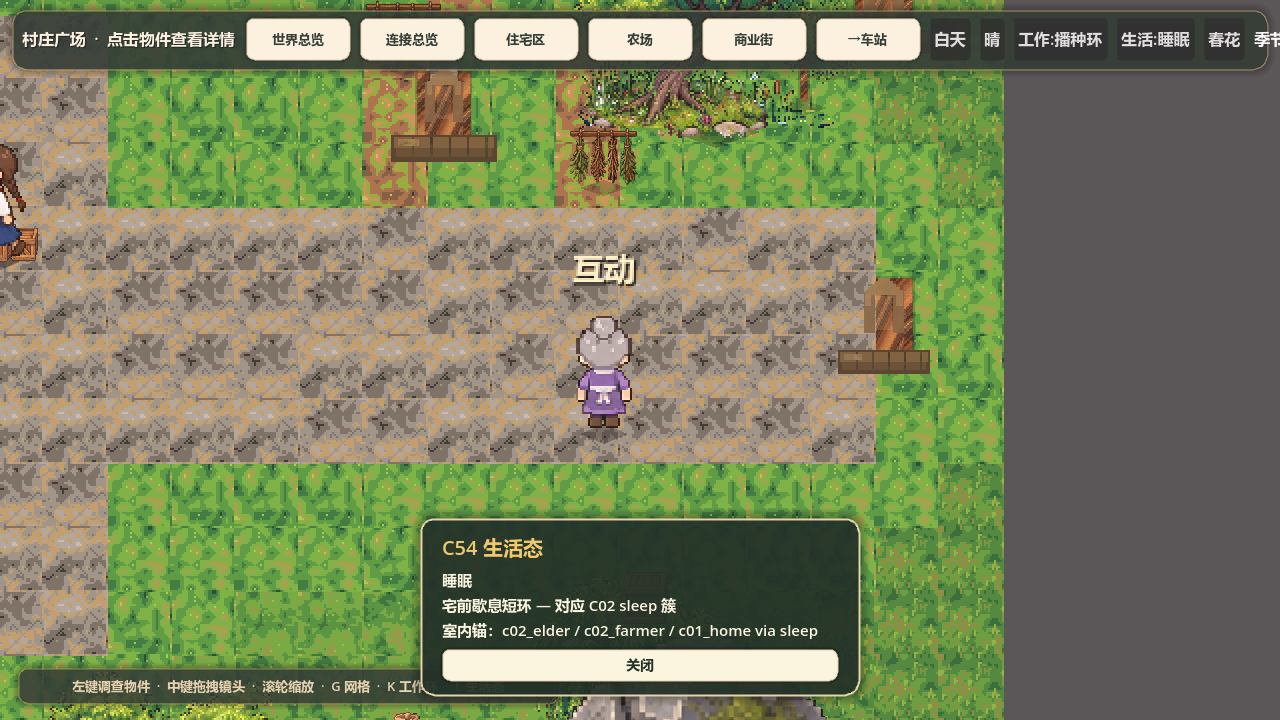
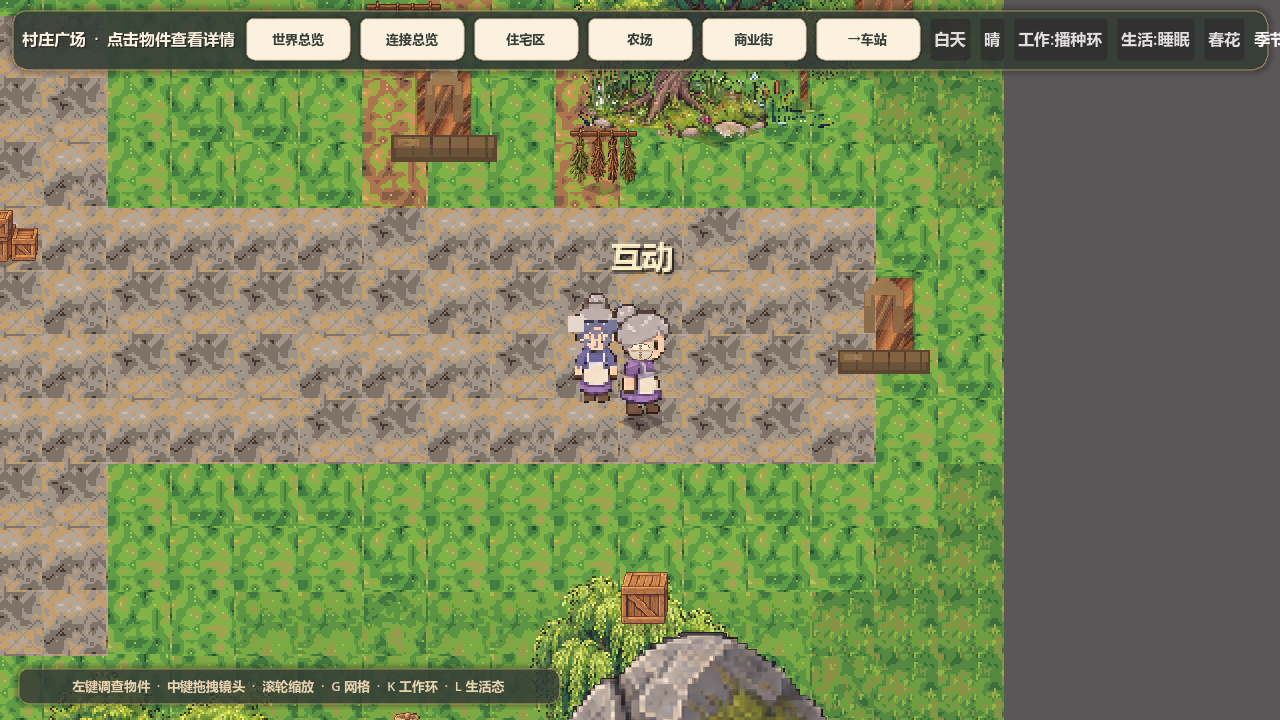
Hold sleep life-pose cues for MCP and strip Env-H dusk dead code.
Adds mcp_force_life_pose, drops C58 polygon FX fallbacks, clarifies §7 square criteria.

Changed region(s): [[0.3125, 0.7028, 0.6875, 0.9778], [0.4375, 0.3361, 0.5312, 0.6111], [0.0, 0.1833, 0.0312, 0.3667]]

diff --git a/dream/docs/GOAL_INTERACT_COMPLETE.md b/dream/docs/GOAL_INTERACT_COMPLETE.md
@@ -215,6 +215,7 @@
 - [`GOAL_G8_USER_QA_LOAD_SMOKE_EVIDENCE.md`](GOAL_G8_USER_QA_LOAD_SMOKE_EVIDENCE.md) — §7 21 场景加载冒烟 21/21  
 - [`GOAL_G8_PILLOW_LAMP_HINT_EVIDENCE.md`](GOAL_G8_PILLOW_LAMP_HINT_EVIDENCE.md) — C54 pillow 深绘 + 白天路灯按 N 提示  
 - [`GOAL_G8_LAMP_STICKY_NIGHT_EVIDENCE.md`](GOAL_G8_LAMP_STICKY_NIGHT_EVIDENCE.md) — 点灯切粘性夜间观灯（无竞态 Timer）  
+- [`GOAL_G8_LIFE_POSE_HOLD_EVIDENCE.md`](GOAL_G8_LIFE_POSE_HOLD_EVIDENCE.md) — `mcp_force_life_pose` 持握睡眠枕头近景  
 - `tools/g8_c61_chests_smoke.gd` — C61 `mcp_open`×5  
 - [`GOAL_TEAM_SIGNOFF.md`](GOAL_TEAM_SIGNOFF.md) — 多团队角色签收表  
 - `tools/qa_interaction_frames.py` — **26 groups** GREEN  

diff --git a/dream/docs/GOAL_G8_LIFE_POSE_HOLD_EVIDENCE.md b/dream/docs/GOAL_G8_LIFE_POSE_HOLD_EVIDENCE.md
@@ -1,0 +1,20 @@
+# Goal G8 — Held sleep pillow MCP + Env-H cleanup
+
+**Date:** 2026-09-13  
+
+## Code
+
+- `NpcRoutineDemo.mcp_force_life_pose(id)` — force life ring + **hold** cue (no fade) for screenshots
+- Sleep pillow cue scale 0.55; `prop_path=pillow_00.png` returned by MCP
+- Removed C58 leaf/grain Polygon2D fallbacks (sprite FX always present)
+- Stripped vestigial dusk-hold / restore-timer fields from `DayNightWeather`
+- §7 square item hint/expect mention sticky night lamp + sleep pillow
+
+## MCP
+
+| Field | Value |
+| --- | --- |
+| `mcp_force_life_pose("sleep")` | `ok`, `prop_scale≈0.55`, `prop_path=.../pillow_00.png` |
+| Shot | `g8_c54_pillow_closeup.png` (zoom 2 at cue) |
+
+User §7 still open.
